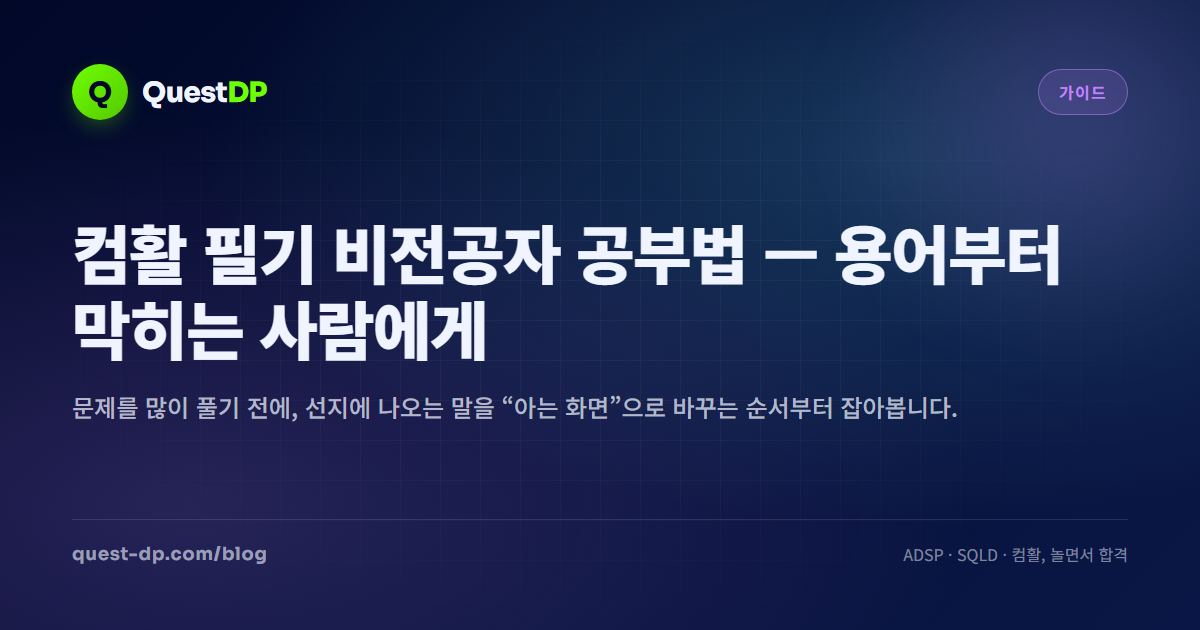
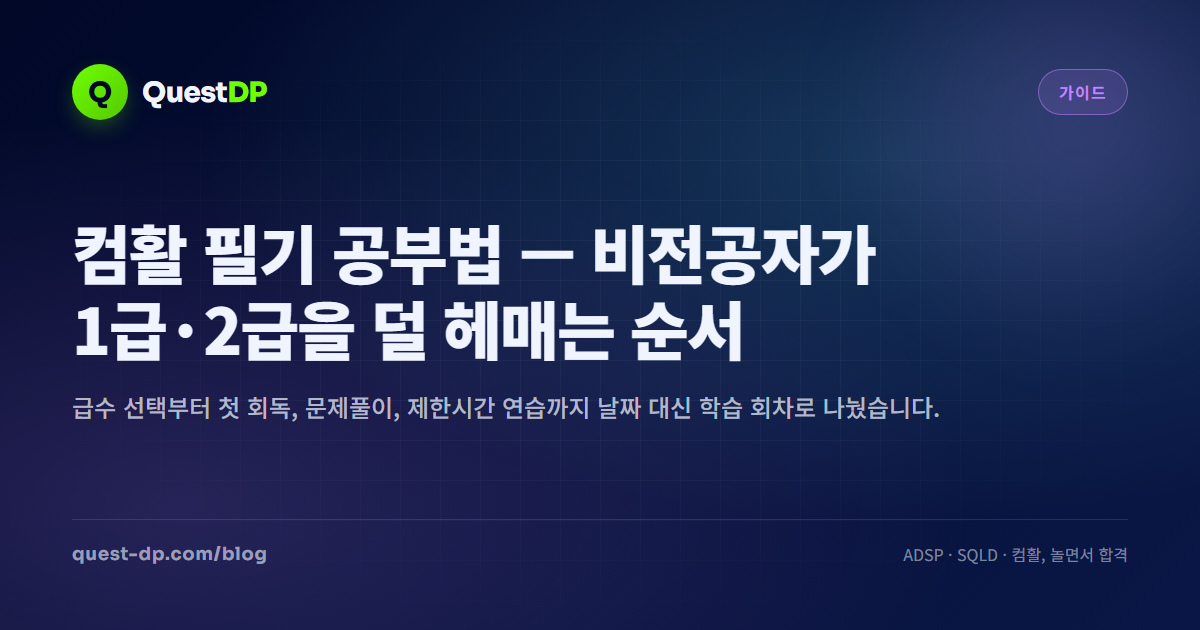
feat(seo): publish Aug 29 beginner computer literacy guide

Changed region(s): [[0.2775, 0.3619, 0.8942, 0.4524], [0.0617, 0.4524, 0.6167, 0.573], [0.0617, 0.6333, 0.8017, 0.6635]]

diff --git a/src/data/seo/blog.ts b/src/data/seo/blog.ts
@@ -1402,81 +1402,198 @@ const POST_COMHWAL_GRADE: BlogPostDraft = {
 
 const POST_COMHWAL_BEGINNER: BlogPostDraft = {
   slug: 'comhwal-필기-비전공자-공부법',
-  title: '컴활 필기 비전공자 공부법 — 용어부터 막히는 사람에게',
-  subtitle: '문제를 많이 풀기 전에, 선지에 나오는 말을 “아는 화면”으로 바꾸는 순서부터 잡아봅니다.',
+  title: '컴활 필기 공부법 — 비전공자가 1급·2급을 덜 헤매는 순서',
+  subtitle: '급수 선택부터 첫 회독, 문제풀이, 제한시간 연습까지 날짜 대신 학습 회차로 나눴습니다.',
   category: 'guide',
-  primaryKeyword: '컴활 필기 비전공자 공부법',
+  primaryKeyword: '컴활 필기 공부법',
   publishedAt: '2026-06-04',
-  readingMinutes: 7,
+  updatedAt: '2026-08-29',
+  readingMinutes: 10,
   metaDescription:
-    '컴활 필기 비전공자 공부법. 컴퓨터 일반 용어부터 스프레드시트, 1급 데이터베이스까지 노베이스가 덜 막히는 순서로 안내합니다.',
+    '컴활 필기를 처음 준비하는 비전공자용 공부 순서. 1급·2급 선택, 12회·18회 학습 계획, 과목별 첫 회독과 문제풀이 방법을 안내합니다.',
   blocks: [
     {
       kind: 'p',
       text:
-        '비전공자가 컴활 필기에서 막히는 건 머리가 나빠서가 아닙니다. 문제 선지가 “운영체제”, “파일 시스템”, “프로토콜”, “함수”를 이미 아는 말처럼 던지기 때문입니다. 그래서 처음에는 문제 수를 늘리기보다 **용어를 실제 화면이나 상황으로 바꾸는 일**이 먼저입니다.',
+        '컴활 필기를 처음 시작한다면 **급수부터 고른 뒤, 과목의 큰 지도를 보고, 짧은 범위를 배운 직후 문제로 확인하는 순서**가 좋습니다. 처음부터 기출 정답 번호만 외우면 낯선 선지가 나왔을 때 다시 막힙니다. 컴퓨터 일반은 실제 기기와 화면에, 스프레드시트와 데이터베이스는 프로그램에서 하는 일에 연결해 이해한 다음 제한시간 풀이로 넘어가세요.',
     },
     {
       kind: 'h2',
-      text: '1단계: 컴퓨터 일반로 말문 트기',
-      id: 'computer-general',
+      text: '먼저 1급인지 2급인지 고르세요',
+      id: 'choose-grade',
+    },
+    {
+      kind: 'table',
+      headers: ['', '컴활 2급 필기', '컴활 1급 필기'],
+      rows: [
+        ['과목', '컴퓨터 일반 · 스프레드시트 일반', '컴퓨터 일반 · 스프레드시트 일반 · 데이터베이스 일반'],
+        ['문항 / 시간', '객관식 40문항 · 40분', '객관식 60문항 · 60분'],
+        ['잘 맞는 목표', '엑셀 중심으로 시작하고 싶을 때', '엑셀과 데이터베이스까지 준비해야 할 때'],
+        ['첫 부담', '두 과목의 낯선 용어', '세 과목과 데이터베이스 범위'],
+      ],
     },
     {
       kind: 'p',
       text:
-        '컴퓨터 일반은 1급과 2급 모두 봅니다. Windows, 파일과 폴더, 작업 표시줄, 하드웨어, 인터넷, 보안 같은 기본 단어가 여기서 나와요. [한글 Windows 10의 특징](/topics/comhwal/computer-general/001)처럼 한 토픽을 짧게 보고 바로 확인 문제를 풀면 낯선 말이 조금씩 익숙해집니다.',
+        '대한상공회의소 안내상 필기는 두 급수 모두 과목당 40점 이상이면서 전체 평균 60점 이상이어야 합니다. 한 과목을 통째로 버리는 전략은 위험합니다. 아직 급수를 정하지 못했다면 [컴활 1급과 2급 차이](/blog/comhwal-1급-vs-2급/)를 먼저 확인하세요.',
+    },
+    {
+      kind: 'callout',
+      tone: 'note',
+      title: '2026년 시험 범위 확인',
+      body:
+        '현재 시험 준비에는 대한상공회의소의 2024~2026년 컴퓨터활용능력 출제기준을 확인하세요. 오래된 교재나 영상만 보고 있다면 사용하는 Office 버전과 바뀐 용어가 현재 기준에 맞는지도 함께 봐야 합니다.',
     },
     {
       kind: 'h2',
-      text: '2단계: 스프레드시트는 기능 묶음으로 보기',
-      id: 'spreadsheet',
+      text: '몇 주보다 공부 회차로 계획하세요',
+      id: 'study-sessions',
+    },
+    {
+      kind: 'p',
+      text:
+        '“며칠 만에 합격”이라는 일정은 하루 공부량과 시작 수준이 빠지면 도움이 되기 어렵습니다. 대신 **한 회를 60~90분**으로 잡고, 끝낸 학습 회차를 세어보세요. 평일을 놓쳐도 계획 전체가 무너지지 않고 현재 위치를 바로 찾을 수 있습니다.',
+    },
+    {
+      kind: 'table',
+      headers: ['학습 구간', '2급 12회 예시', '1급 18회 예시'],
+      rows: [
+        ['시험 구조와 전체 지도', '1회', '1회'],
+        ['컴퓨터 일반', '3회', '4회'],
+        ['스프레드시트 일반', '4회', '4회'],
+        ['데이터베이스 일반', '—', '4회'],
+        ['혼합 문제와 오답', '2회', '3회'],
+        ['제한시간 세트', '2회', '2회'],
+      ],
+    },
+    {
+      kind: 'callout',
+      tone: 'tip',
+      title: '회차 수는 합격 보장이 아닙니다',
+      body:
+        '12회와 18회는 비전공자가 빠뜨릴 구간 없이 계획을 세우기 위한 예시입니다. 제한시간 세트에서 한 과목이 계속 40점 아래라면 그 과목 회차를 추가한 뒤 시험일을 잡는 편이 안전합니다.',
+    },
+    {
+      kind: 'h2',
+      text: '첫 회독은 과목 이름보다 화면과 역할을 보세요',
+      id: 'first-pass',
+    },
+    {
+      kind: 'table',
+      headers: ['과목', '처음 연결할 장면', '첫 회독의 완료선'],
+      rows: [
+        ['컴퓨터 일반', 'Windows 화면, 저장장치, 인터넷, 보안', '용어를 실제 기기나 상황으로 한 문장 설명'],
+        ['스프레드시트 일반', '셀 입력, 수식, 정렬·필터, 차트·인쇄', '기능 이름을 보고 화면에서 무엇이 바뀌는지 설명'],
+        ['데이터베이스 일반', '테이블, 쿼리, 폼, 보고서', '데이터 저장·찾기·입력·출력 역할을 구분'],
+      ],
+    },
+    {
+      kind: 'p',
+      text:
+        '컴퓨터 일반은 [Windows 화면과 기본 용어](/topics/comhwal/computer-general/001)부터, 스프레드시트는 [엑셀 화면 구성](/topics/comhwal/spreadsheet-general/060)부터 시작하면 됩니다. 1급이라면 스프레드시트의 기본 단어를 익힌 뒤 [데이터베이스 기본](/topics/comhwal/database-general/107)으로 넘어가세요. 처음부터 세 과목을 동시에 펼치기보다 한 과목의 큰 지도를 만든 다음 다음 과목을 붙이는 편이 덜 복잡합니다.',
+    },
+    {
+      kind: 'h2',
+      text: '하루 80분은 이 순서로 씁니다',
+      id: 'daily-loop',
+    },
+    {
+      kind: 'table',
+      headers: ['시간', '할 일', '완료 기준'],
+      rows: [
+        ['10분', '전날 오답 다시 보기', '정답 번호가 아니라 틀린 문장을 고쳐 말하기'],
+        ['25분', '새 개념 한 묶음', '화면이나 기능의 역할을 한 문장으로 설명'],
+        ['20분', 'QuestDP 같은 범위', '방금 본 내용을 선지에서 구분'],
+        ['25분', '최신 기준 문제', '틀린 선지의 어느 단어가 잘못됐는지 표시'],
+      ],
+    },
+    {
+      kind: 'p',
+      text:
+        '시간이 40분뿐이라면 새 범위를 절반으로 줄이세요. 개념만 몰아서 보고 문제를 다음 날로 미루는 것보다, 짧게 보더라도 같은 날 바로 문제를 붙이는 편이 현재 약점을 찾기 쉽습니다.',
+    },
+    {
+      kind: 'h2',
+      text: '문제은행식이어도 답 번호만 외우면 안 됩니다',
+      id: 'question-bank',
+    },
+    {
+      kind: 'p',
+      text:
+        '대한상공회의소는 컴활 상시시험 문제가 문제은행식으로 운영되지만 실제 상시시험 문제는 공개하지 않는다고 안내합니다. 따라서 오래된 기출의 정답 위치만 외우는 방식은 새 표현에 약합니다. 먼저 [2024~2026년 공식 출제기준](https://license.korcham.net/co/examguide04Sub.do?cd=0103&mm=21db&no=319940&pg=1)과 공식 예제 문제를 확인하고, 문제를 풀 때는 틀린 선지를 맞는 문장으로 바꾸세요.',
     },
     {
       kind: 'ul',
       items: [
-        '입력과 편집: 셀, 워크시트, 데이터 형식',
-        '수식과 함수: 참조, 통계 함수, 날짜 함수, 논리 함수',
-        '데이터 관리: 정렬, 필터, 피벗 테이블',
-        '출력과 차트: 페이지 설정, 인쇄, 차트 종류',
+        '1회독: 정답을 보기 전에 어떤 과목·기능을 묻는지 표시한다.',
+        '2회독: 틀린 선지에서 잘못된 단어 하나를 찾아 고친다.',
+        '3회독: 2급 40분, 1급 60분에 맞춰 과목을 섞어 푼다.',
       ],
-    },
-    {
-      kind: 'h2',
-      text: '3단계: 1급이면 데이터베이스를 나중에 붙이기',
-      id: 'database',
     },
     {
       kind: 'p',
       text:
-        '컴활 1급은 데이터베이스 일반이 추가됩니다. 처음부터 데이터베이스까지 같이 잡으려 하면 첫 회독이 느려져요. 먼저 [스프레드시트 화면 구성](/topics/comhwal/spreadsheet-general/060)으로 엑셀 기본 단어를 만들고, 1급 목표라면 [데이터베이스 기본](/topics/comhwal/database-general/107)부터 테이블·쿼리·폼·보고서 순서로 붙이는 편이 좋습니다.',
+        '오답을 다시 보는 구체적인 방법은 [컴활 필기 기출 복습법](/blog/comhwal-기출-복습법/)에 따로 정리했습니다. 시험까지 시간이 매우 짧다면 전체 필러를 억지로 압축하지 말고 [컴활 필기 7일 플랜](/blog/comhwal-7일-필기-플랜/)에서 우선순위만 확인하세요.',
     },
     {
-      kind: 'table',
-      headers: ['기간', '비전공자 목표'],
-      rows: [
-        ['1~3일차', '컴퓨터 일반 기본 용어와 Windows 토픽 훑기'],
-        ['4~8일차', '스프레드시트 입력·함수·데이터 관리 묶어 보기'],
-        ['9~12일차', '1급이면 데이터베이스, 2급이면 스프레드시트 약점 반복'],
-        ['시험 전', '오답 선지와 자주 헷갈린 용어만 짧게 회전'],
+      kind: 'h2',
+      text: '필기에서 본 말을 실기 화면에도 남겨두세요',
+      id: 'bridge-to-practical',
+    },
+    {
+      kind: 'p',
+      text:
+        '필기와 실기는 따로 합격해야 합니다. 필기에서 함수, 정렬, 필터, 쿼리 같은 말을 볼 때 가능하면 Excel이나 Access 화면에서 위치를 한 번 확인해 두세요. 필기 공부를 실기 연습으로 바꿀 필요는 없지만, 용어와 버튼을 연결해 두면 실기로 넘어갈 때 처음부터 다시 배우는 느낌이 줄어듭니다.',
+    },
+    {
+      kind: 'callout',
+      tone: 'warn',
+      title: '필기 합격이 자격증 취득 완료는 아닙니다',
+      body:
+        '대한상공회의소 안내에 따르면 실기는 필기 합격 후 2년 이내에 응시할 수 있습니다. 필기 합격 뒤 너무 오래 쉬지 말고, 오답에서 표시한 스프레드시트·데이터베이스 기능을 실기 화면으로 옮길 날짜까지 함께 잡아두세요.',
+    },
+    {
+      kind: 'h2',
+      text: '오늘 시작할 일 세 가지',
+      id: 'start-today',
+    },
+    {
+      kind: 'ul',
+      items: [
+        '1급과 2급 중 필요한 급수를 먼저 정한다.',
+        '공부할 날짜가 아니라 12회 또는 18회 칸을 캘린더에 만든다.',
+        '첫 컴퓨터 일반 범위를 25분 보고, 같은 날 확인 문제까지 푼다.',
       ],
     },
     {
       kind: 'cta',
-      label: '컴활 FAQ 보기',
-      href: '/faq/comhwal',
+      label: '컴활 게임으로 플레이하기',
+      href: '#/game/comhwal',
     },
   ],
   faqs: [
     {
-      q: '컴활 필기 비전공자는 몇 주 잡아야 하나요?',
-      a: '2급은 1~2주, 1급은 2~4주 정도를 많이 잡습니다. 다만 하루 학습량보다 매일 용어를 다시 보는지가 더 중요합니다.',
+      q: '컴활 필기는 1급과 2급 중 무엇부터 준비해야 하나요?',
+      a: '엑셀 중심의 자격이 필요하고 데이터베이스 과목 없이 시작하고 싶다면 2급이 가볍습니다. 지원처에서 1급을 요구하거나 Excel과 Access 범위를 모두 준비해야 한다면 1급을 선택하세요.',
+    },
+    {
+      q: '컴활 필기 비전공자는 몇 주 공부해야 하나요?',
+      a: '필요한 기간은 급수, 하루 학습시간, Excel·Access 경험에 따라 달라집니다. 주차보다 2급 12회, 1급 18회의 60~90분 학습 회차를 예시로 잡고, 제한시간 세트에서 과락 위험 과목이 남으면 회차를 추가하세요.',
+    },
+    {
+      q: '컴활 필기는 기출문제만 반복해도 되나요?',
+      a: '문제풀이 반복은 필요하지만 정답 번호만 외우는 것은 권하지 않습니다. 대한상공회의소는 상시시험 문제를 공개하지 않으므로 현재 출제기준과 공식 예제 문제를 먼저 보고, 틀린 선지를 맞는 문장으로 고치는 복습을 함께 하세요.',
     },
     {
       q: '컴활 필기와 실기를 같이 준비해도 되나요?',
-      a: '가능하지만 처음이면 필기 용어를 먼저 잡고 실기 화면으로 넘어가는 편이 덜 흔들립니다.',
+      a: '필기 공부 중 함수, 정렬, 필터, 쿼리 같은 기능의 화면 위치를 확인하는 것은 도움이 됩니다. 다만 처음부터 실기 작업형 연습까지 한꺼번에 넣어 필기 진도가 멈추지 않도록 구분하세요.',
+    },
+    {
+      q: '컴활 1급에서 데이터베이스 과목을 포기해도 되나요?',
+      a: '필기는 과목당 40점 이상과 전체 평균 60점 이상을 모두 충족해야 하므로 한 과목을 통째로 포기하면 과락 위험이 큽니다. 테이블·쿼리·폼·보고서의 역할부터 나눠 최소 기준을 확보하세요.',
     },
   ],
-  relatedSlugs: ['comhwal-1급-vs-2급', 'comhwal-컴퓨터-일반-우선순위'],
+  relatedSlugs: ['comhwal-1급-vs-2급', 'comhwal-7일-필기-플랜', 'comhwal-기출-복습법'],
 };
 
 // ─── Post 9: 컴퓨터 일반 우선순위 ────────────────────────────
@@ -1798,7 +1915,7 @@ const POST_COMHWAL_PAST_REVIEW: BlogPostDraft = {
       a: '시간이 오래 걸렸거나 찍어서 맞은 문제는 복습하는 편이 좋습니다. 시험장에서는 그런 문제가 다시 약점으로 바뀔 수 있습니다.',
     },
   ],
-  relatedSlugs: ['comhwal-7일-필기-플랜', 'comhwal-필기에서-실기-전환법'],
+  relatedSlugs: ['comhwal-필기-비전공자-공부법', 'comhwal-7일-필기-플랜', 'comhwal-필기에서-실기-전환법'],
 };
 
 // ─── Export ───────────────────────────────────────────────

diff --git a/docs/seo-aug29-release.md b/docs/seo-aug29-release.md
@@ -1,0 +1,14 @@
+# 2026-08-29 편성 공식 블로그 배포 변경
+
+실제 배포 작업일: 2026-09-07 KST. 사용자가 승인한 8월 29일 원고의 commit/push를 명시적으로 요청했다.
+
+- 대상: https://quest-dp.com/blog/comhwal-필기-비전공자-공부법/
+- 변경: 급수 선택 → 12회/18회 학습 계획 예시 → 과목별 첫 회독 → 개념·문제·오답 반복 → 실기 연결. 12회/18회는 합격 보장이 아니다.
+- 관련 변경: 기출 복습 글의 필러 역링크, RSS 제목·설명, 해당 글의 OG 이미지. OG 생성기는 특정 slug만 생성하고 한국어·가운뎃점 연결 표현이 잘리지 않도록 보완했다.
+- 배포 범위 제외: 8월 30일 비교 글 초안, 외부 채널 원고, Instagram 이미지, 진행 중 게임 UI 변경.
+- 사전 검증: 별도 worktree에서 기존 로컬 lockfile을 사용한 `npm ci --no-audit --no-fund`, `npm run typecheck`, `npm test`(53 files / 596 tests), `npm run build` 성공. lockfile은 저장소 정책상 추적 제외 상태를 유지했다.
+- SEO 산출물: 559 정적 HTML / 262 sitemap URLs / 297 noindex pages. 대상 글은 self-canonical이며 noindex가 없고 새 제목·12회/18회·게임 CTA가 HTML에 포함됐다.
+- 후속 검증: push 후 해당 SHA의 GitHub CI build와 Cloudflare Pages 상태, 운영 HTML·번들 반영을 별도로 확인해야 한다. 이 문서는 push 전 변경 기록이며 원격 배포 성공을 미리 주장하지 않는다.
+- 색인: 사용자에게 위 canonical URL을 전달한다. GSC 요청·색인 완료는 이 commit만으로 성립하지 않는다.
+
+레슨·문제 원본 및 서버 데이터 변경은 없다.
